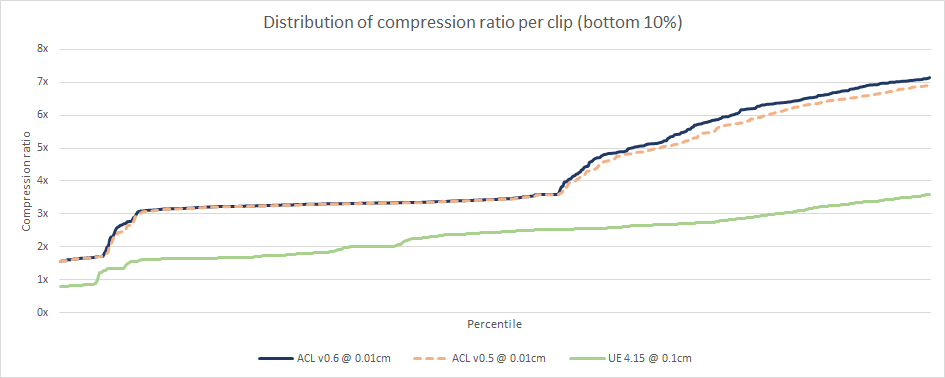
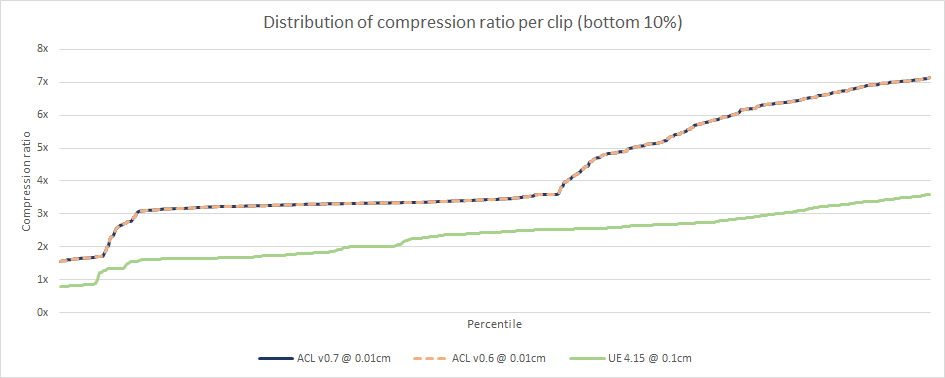
Updating Paragon stats and graphs.

diff --git a/docs/paragon_performance.md b/docs/paragon_performance.md
@@ -4,6 +4,8 @@ To compile the statistics, a large number of animations from [Paragon](https://w
 In October 2017 the animations were extracted and converted to the [ACL file format](the_acl_file_format.md) losslessly. The data is sadly **NOT** available upon request.
 Epic has permitted [Nicholas Frechette](https://github.com/nfrechette) to use them for research purposes only under a non-disclosure agreement.
 
+**Note: Epic has released Paragon assets publicly in early 2018, once we get around to it, it will be extracted and made available along with updated stats.**
+
 *  Number of clips: **6558**
 *  Total duration: **07h 00m 45.27s**
 *  Raw size: **4276.11 MB** (10x float32 * num bones * num samples)
@@ -31,15 +33,15 @@ Statistics for ACL are being generated with the `acl_compressor` tool found [her
 *  Compressed size: **205.58 MB**
 *  Compression ratio: **20.80 : 1**
 *  Max error: **3.8615** centimeters
-*  Compression time: **09h 38m 28.25s** (single threaded)
-*  Compression time: **02h 36m 46.82s** (multi threaded on 4 cores)
+*  Compression time: **09h 43m 41.08s** (single threaded)
+*  Compression time: **02h 37m 23.60s** (multi threaded on 4 cores)
 
 Notes:
 
 *  You can compress any number of clips in parallel with multiple threads but each clip uses a single thread for now.
 *  The error is unusually high for **3** exotic clips
 
-**Results from release [0.6.0](https://github.com/nfrechette/acl/releases/tag/v0.6.0)**
+**Results from release [0.7.0](https://github.com/nfrechette/acl/releases/tag/v0.7.0)**
 
 See [here](paragon_performance_history.md) for a history of performance progress across the various releases.
 
@@ -80,5 +82,3 @@ Sadly the *Unreal 4* compression logic does not *yet* support multi-threading an
 ![Distribution of the error for every bone at every key frame (top 10%)](images/acl_paragon_exhaustive_error_top_10.png)
 
 ![Distribution of clip durations](images/acl_paragon_clip_durations.png)
-
-![Distribution of selected bit rates](images/acl_paragon_bit_rates.png)

diff --git a/docs/paragon_performance_history.md b/docs/paragon_performance_history.md
@@ -12,6 +12,17 @@ The error is measured **3cm** away from each bone to simulate the visual mesh sk
 
 Statistics for ACL are being generated with the `acl_compressor` tool found [here](../tools/acl_compressor). It supports various compression method but only the overall best variant will be tracked here. Every clip uses an error threshold of **0.01cm (0.1mm)**.
 
+## Results from release [0.7.0](https://github.com/nfrechette/acl/releases/tag/v0.7.0):
+
+*  Compressed size: **205.58 MB**
+*  Compression ratio: **20.80 : 1**
+*  Max error: **3.8615** centimeters
+*  Compression time: **09h 43m 41.08s** (single threaded)
+*  Compression time: **02h 37m 23.60s** (multi threaded on 4 cores)
+*  Best variant: Segmented uniform sampling with variable bit rate and range reduction
+
+*Note: The error is unusually high for **3** exotic clips*
+
 ## Results from release [0.6.0](https://github.com/nfrechette/acl/releases/tag/v0.6.0):
 
 *  Compressed size: **205.58 MB**
